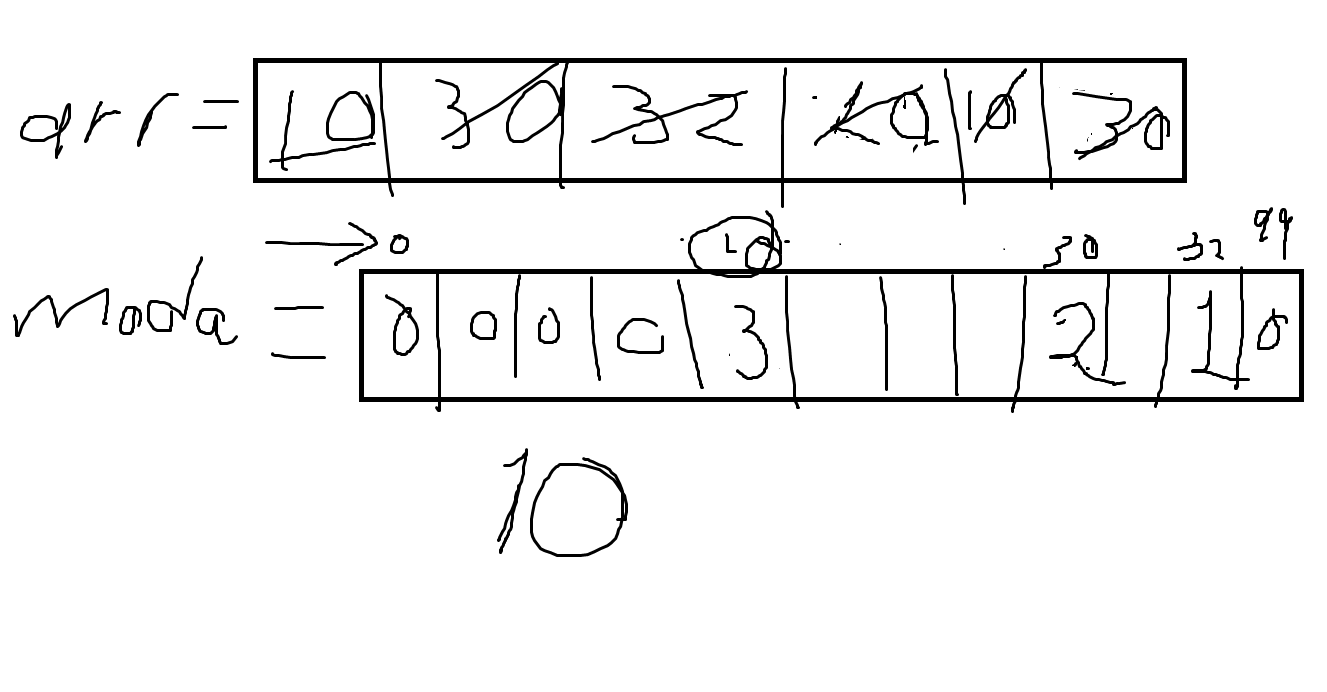
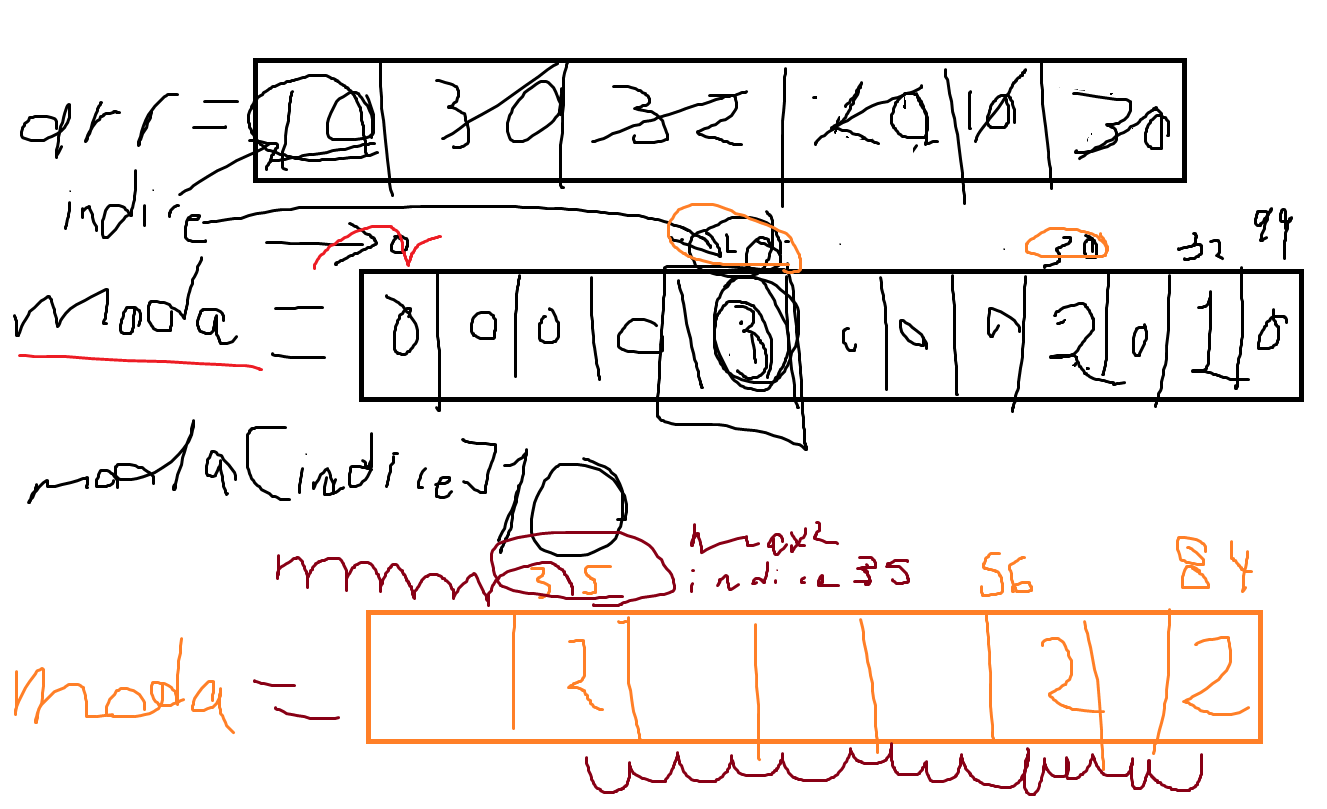
Moda y mediana

diff --git a/prog06_arreglos_matrices/ejemplo02.cpp b/prog06_arreglos_matrices/ejemplo02.cpp
@@ -10,8 +10,8 @@ void clear(int* arreglo){
         arreglo[i] = 0;
 }
 
-void printArr(int arr[]){
-    for(int i=0; i<100; i++)
+void printArr(int arr[], int n){
+    for(int i=0; i<n; i++)
         cout<<arr[i]<<" ";
     cout<<endl;
 }
@@ -29,7 +29,40 @@ void promedio(int arr[], int n){
 }
 
 void moda(int arr[], int n){
-    int moda[100];
+    int moda[100], indice = 0, max = 0;
+    clear(moda);
+
+    for(int i=0; i<n; i++){
+        indice = arr[i];
+        moda[indice]+=1;
+    }
+
+    for(int i=0; i<100; i++){
+        if(moda[i] > max){
+            max = moda[i];
+            indice = i;
+        }
+    }
+    cout<<"La moda es "<<indice<<" con "<<max<<" repeticiones"<<endl;
+}
+
+void mediana(int arr[], int n){
+    // Inicio bubble sort
+    int i, j, aux;
+    for(i=0; i<n-1; i++){
+        for(j=0; j<n-i-1; j++){
+            if(arr[j] > arr[j+1]){
+                // inicio swap
+                aux = arr[j];
+                arr[j] = arr[j+1];
+                arr[j+1] = aux;
+                // fin swap
+            }
+        }
+    }
+    // fin bubble sort
+    aux = n / 2;
+    cout<<"La mediana es "<<arr[aux]<<endl;
 }
 
 int main(){
@@ -42,7 +75,10 @@ int main(){
     cout<<"Ingrese el numero de datos: ";
     cin>>n;
     llenarArr(arr, n);
+    printArr(arr, n);
     promedio(arr, n);
+    moda(arr, n);
+    mediana(arr, n);
 	
 	return 0;
 }
